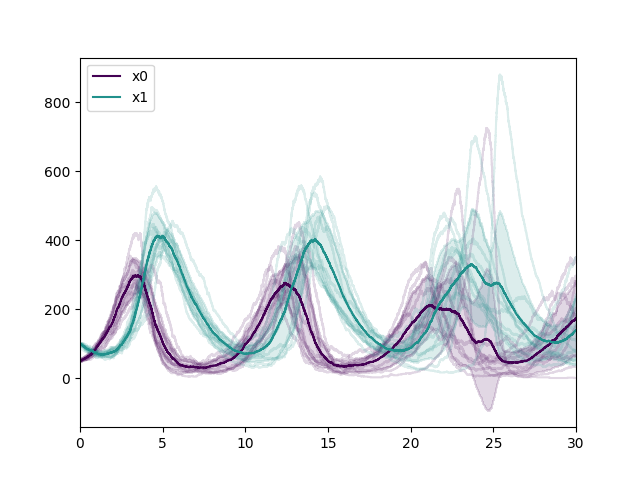
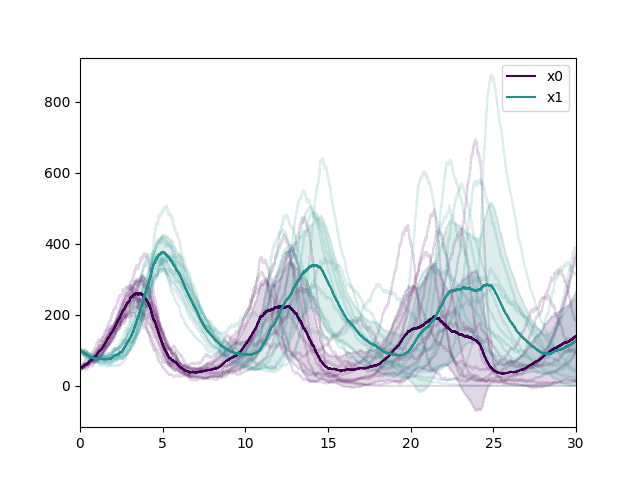
improve examples

diff --git a/doc/example/one_state_gene_expression.py b/doc/example/one_state_gene_expression.py
@@ -10,15 +10,18 @@ def run():
     reactants = np.array([[0, 0], [1, 0], [1, 0], [0, 1]])
     products = np.array([[1, 0], [0, 0], [1, 1], [0, 0]])
 
-    t_max = 30
+    t_max = 100
     x0 = np.array([0, 0])
-    k = np.array([100, 1, 1, 0.4])
+    k = np.array([3, 0.1, 0.2, 0.05])
 
     output = ssa.output.ArrayOutput(np.linspace(0, t_max, 100))
+    output = ssa.output.FullOutput()
 
     model = ssa.Model(reactants=reactants, products=products, t_max=t_max, x0=x0, k=k, output=output)
-    result = model.simulate(n_reps=20)
-    ssa.plot(result, show=False)
+    result = model.simulate(n_reps=10)
+
+    x_names = ["mRNA", "Protein"]
+    ssa.plot(result, show=False, x_names=x_names)
     plt.savefig("one_state_gene_expression.png")
 
 

diff --git a/doc/example/transcription.py b/doc/example/transcription.py
@@ -1,0 +1,26 @@
+import sys
+sys.path.insert(0, '/home/yannik/ssa')
+
+import ssa
+import numpy as np
+import matplotlib.pyplot as plt
+
+
+def run():
+    reactants = np.array([[0], [1]])
+    products = np.array([[1], [0]])
+
+    x_names = 'mRNA'
+
+    t_max = 1e2
+    x0 = np.array([0])
+    k = np.array([10, 0.1])
+
+    model = ssa.Model(reactants=reactants, products=products, t_max=t_max, x0=x0, k=k)
+    result = model.simulate(n_reps=10)
+    ssa.plot(result)
+
+    plt.savefig("transcription.png")
+
+
+run()

diff --git a/doc/example/michaelis_menten.py b/doc/example/michaelis_menten.py
@@ -25,7 +25,8 @@ def run():
     model = ssa.Model(reactants=reactants, products=products,
                       x0=x0, k=k, t_max=t_max)
     result = model.simulate(n_reps=20)
-    ssa.plot(result, show=False)
+    x_names = ["S", "E", "SE", "P"]
+    ssa.plot(result, x_names=x_names, show=False)
     plt.savefig("michaelis_menten.png")
 
 run()
